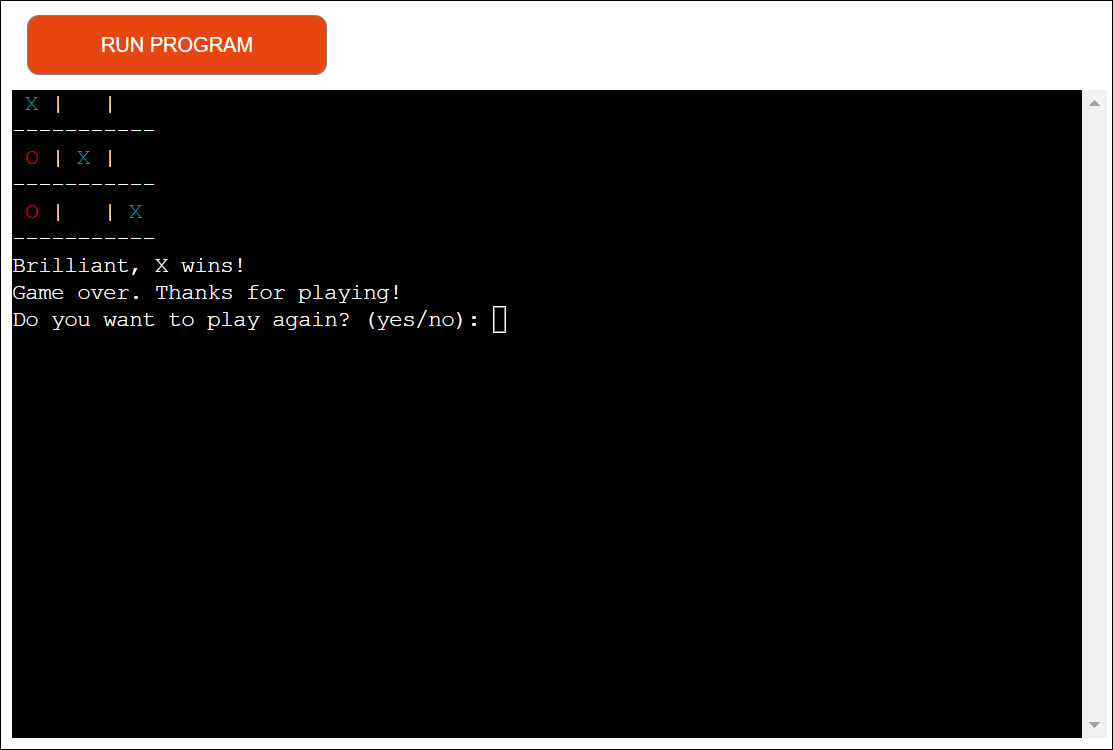
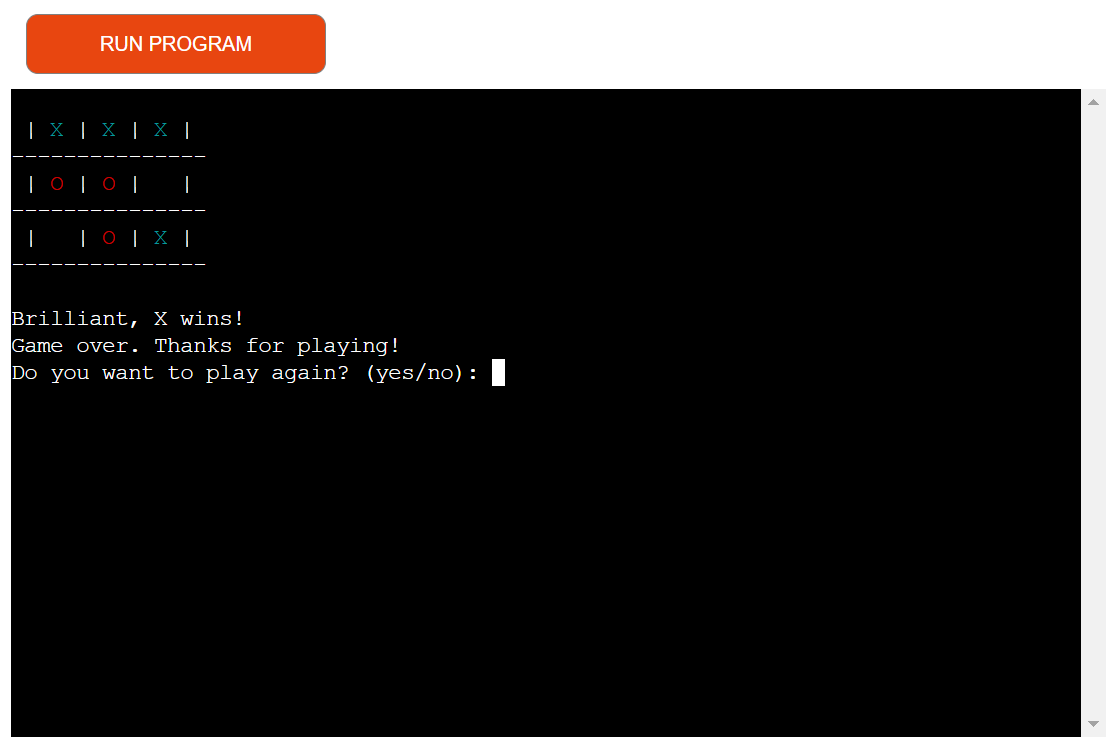
Add Player Move in features and edited version of screenshots in README.md

Changed region(s): [[0.0, 0.0, 0.4582, 0.5213], [0.0, 0.1227, 1.0, 1.0]]

diff --git a/README.md b/README.md
@@ -19,11 +19,12 @@ The planning draft of the game's structure.
 ## Features
 ### Existing Features:
 1. Player vs Bot: The player plays against a basic bot that randomly selects available moves.
-2. Symbol Selection: The player can pick if they want to play as "X" or "O".
+2. Player Move: Players can now choose whether to play as X or O before the game begins.The game will prompt the player to select their symbol, and the computer will automatically be assigned the other symbol. Players input a number between 1 and 9 to make their move, representing positions on the 3x3 grid. The game will validate the move to ensure the chosen position is empty. Invalid moves will prompt the player to enter a valid number.
+3. Symbol Selection: The player can pick if they want to play as "X" or "O".
 ![tictactoe start](assets/tictactoe%20game0.PNG)
-3. Winner and Draw Detection: The game checks for both winning and draw conditions after every move.
-4. Replay Option: After the game ends, the player can choose to play again or exit.
-5. Colorama: Added this feature to make the board more attractive and accessible
+4. Winner and Draw Detection: The game checks for both winning and draw conditions after every move.
+5. Replay Option: After the game ends, the player can choose to play again or exit.
+6. Colorama: Added this feature to make the board more attractive and accessible
 ![tictactoe color theme](assets/tictactoe%20game1.PNG)
 
 ### Future Features:
